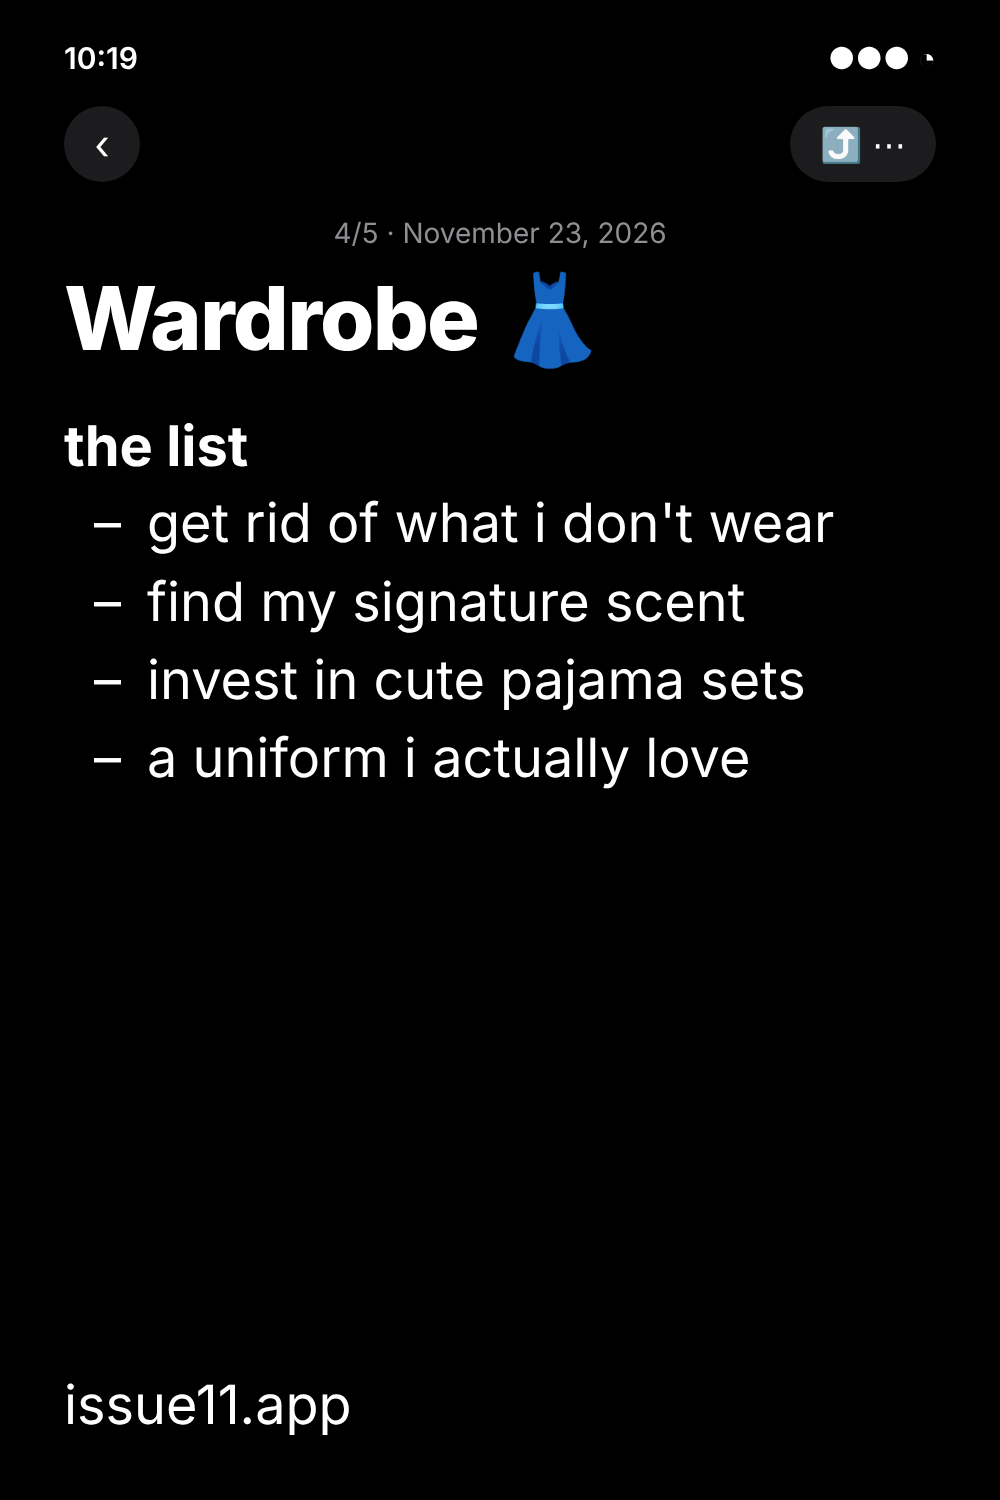
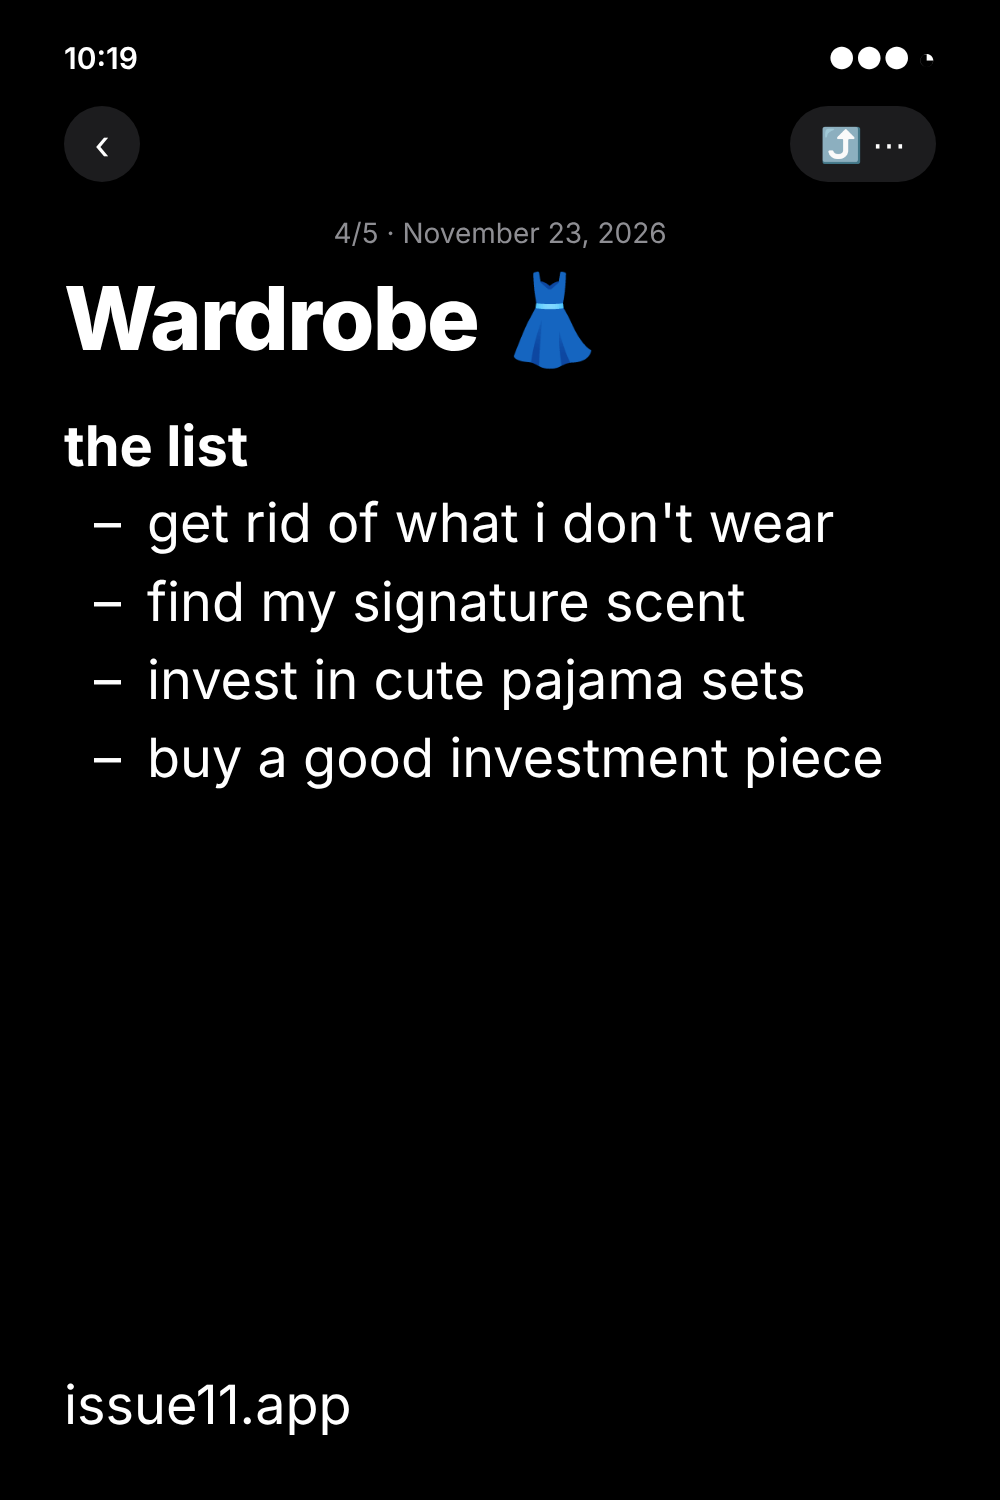
Pinterest: PRC-4 line "buy a good investment piece" (Megan)
Claude-Session: https://claude.ai/code/session_01YGtmQppBCBt9nypMHzxSp1

Changed region(s): [[0.155, 0.4907, 0.899, 0.5213]]

diff --git a/drafts/pinterest/carousels/PRC-4.dc.html b/drafts/pinterest/carousels/PRC-4.dc.html
@@ -18,7 +18,7 @@
   <p style="margin:34px 0 0; text-align:center; font-size:28px; color:#8e8e93">4/5 · November 23, 2026</p>
   <h1 style="margin:22px 0 0; font-size:88px; font-weight:800; letter-spacing:-0.02em; line-height:1.05">Wardrobe 👗</h1>
   
-  <p style="margin:48px 0 6px; font-weight:700; font-size:56px">the list</p><div style="padding-left:30px; font-size:54px; line-height:1.3"><div style="display:flex; gap:26px; margin:8px 0"><span>–</span><span>get rid of what i don't wear</span></div><div style="display:flex; gap:26px; margin:8px 0"><span>–</span><span>find my signature scent</span></div><div style="display:flex; gap:26px; margin:8px 0"><span>–</span><span>invest in cute pajama sets</span></div><div style="display:flex; gap:26px; margin:8px 0"><span>–</span><span>a uniform i actually love</span></div></div>
+  <p style="margin:48px 0 6px; font-weight:700; font-size:56px">the list</p><div style="padding-left:30px; font-size:54px; line-height:1.3"><div style="display:flex; gap:26px; margin:8px 0"><span>–</span><span>get rid of what i don't wear</span></div><div style="display:flex; gap:26px; margin:8px 0"><span>–</span><span>find my signature scent</span></div><div style="display:flex; gap:26px; margin:8px 0"><span>–</span><span>invest in cute pajama sets</span></div><div style="display:flex; gap:26px; margin:8px 0"><span>–</span><span>buy a good investment piece</span></div></div>
 <p style="position:absolute; left:64px; bottom:60px; margin:0; font-size:54px; line-height:1.3">issue11.app</p></div>
 </div>
 </x-dc>

diff --git a/drafts/pinterest/color-test/PRC-4.dc.html b/drafts/pinterest/color-test/PRC-4.dc.html
@@ -18,7 +18,7 @@
   <p style="margin:34px 0 0; text-align:center; font-size:28px; color:#8e8e93">4/5 · November 23, 2026</p>
   <h1 style="margin:22px 0 0; font-size:88px; font-weight:800; letter-spacing:-0.02em; line-height:1.05">Wardrobe 👗</h1>
   
-  <p style="margin:48px 0 6px; font-weight:700; font-size:56px">the list</p><div style="padding-left:30px; font-size:54px; line-height:1.3"><div style="display:flex; gap:26px; margin:8px 0"><span>–</span><span>get rid of what i don't wear</span></div><div style="display:flex; gap:26px; margin:8px 0"><span>–</span><span>find my signature scent</span></div><div style="display:flex; gap:26px; margin:8px 0"><span>–</span><span>invest in cute pajama sets</span></div><div style="display:flex; gap:26px; margin:8px 0"><span>–</span><span>a uniform i actually love</span></div></div>
+  <p style="margin:48px 0 6px; font-weight:700; font-size:56px">the list</p><div style="padding-left:30px; font-size:54px; line-height:1.3"><div style="display:flex; gap:26px; margin:8px 0"><span>–</span><span>get rid of what i don't wear</span></div><div style="display:flex; gap:26px; margin:8px 0"><span>–</span><span>find my signature scent</span></div><div style="display:flex; gap:26px; margin:8px 0"><span>–</span><span>invest in cute pajama sets</span></div><div style="display:flex; gap:26px; margin:8px 0"><span>–</span><span>buy a good investment piece</span></div></div>
 <p style="position:absolute; left:64px; bottom:60px; margin:0; font-size:54px; line-height:1.3">issue11.app</p></div>
 </div>
 </x-dc>

diff --git a/drafts/pinterest/color-test/rebrand_car_gen.py b/drafts/pinterest/color-test/rebrand_car_gen.py
@@ -13,7 +13,7 @@ def note(k,i,title,secs):
 note('PRC-1',1,'Project: Personal Rebrand 🎀🫧',[("the plan",["physical","mentally","wardrobe","money + space"]),("when",["starting now, not january"])])
 note('PRC-2',2,'Physical ✨',[("the list",["pilates 3x a week (or just walk)","drink water. actually","fix my skincare routine","nails always done","8 hours of sleep, no negotiating"])])
 note('PRC-3',3,'Mentally 🧠',[("the list",["no more people-pleasing","journal before i touch my phone","unfollow anyone who makes me feel behind","one hard thing a week"])])
-note('PRC-4',4,'Wardrobe 👗',[("the list",["get rid of what i don't wear","find my signature scent","invest in cute pajama sets","a uniform i actually love"])])
+note('PRC-4',4,'Wardrobe 👗',[("the list",["get rid of what i don't wear","find my signature scent","invest in cute pajama sets","buy a good investment piece"])])
 note('PRC-5',5,'Money + space 💸',[("money",["open a HYSA account just for future me","raise my rates (or ask for a raise)"]),("space",["clean out my camera roll","make my bed every day"])])
 for k,v in P.items(): open(f'{k}.dc.html','w').write(v); open(f'../carousels/{k}.dc.html','w').write(v)
 print(len(P))
